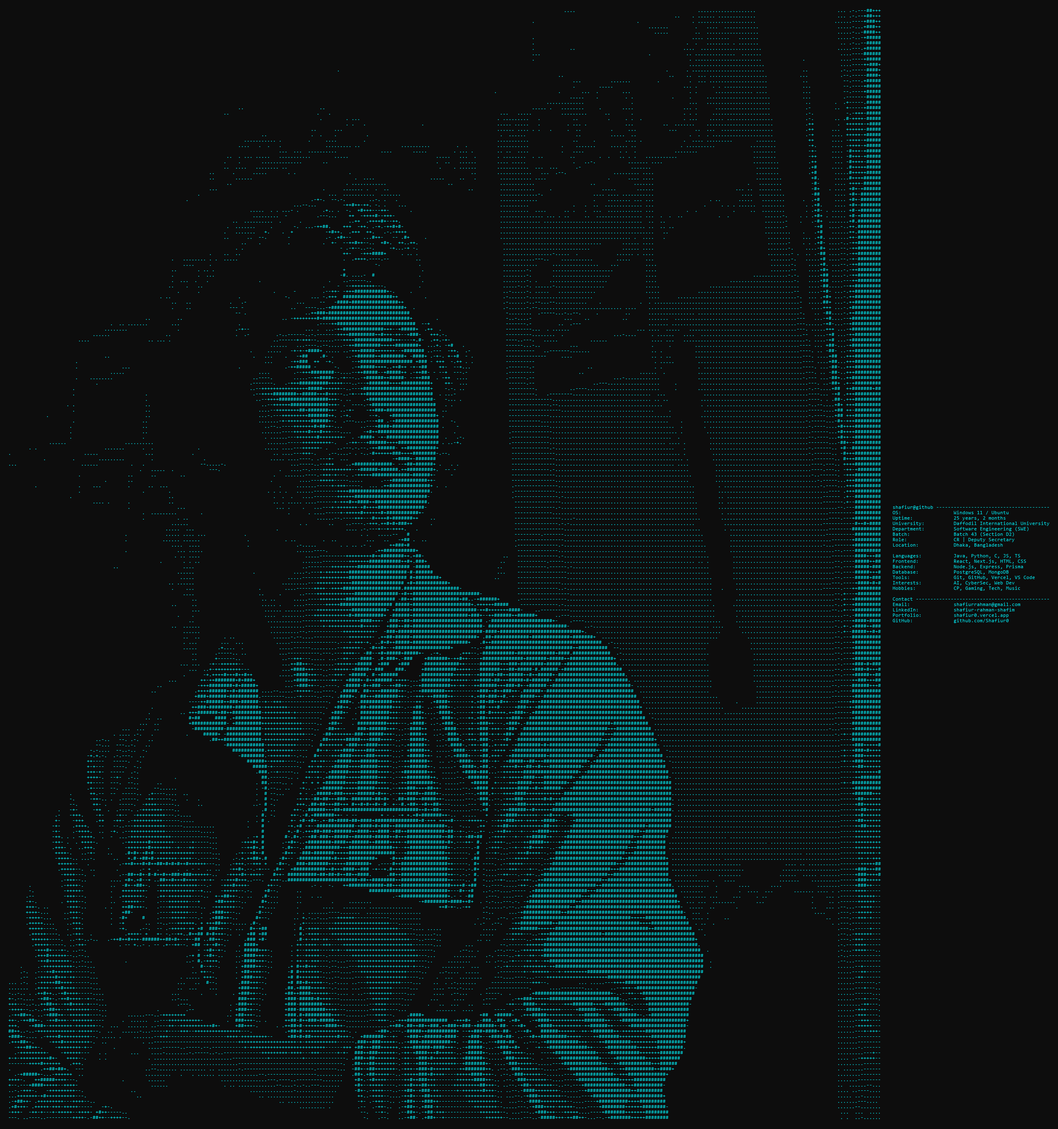
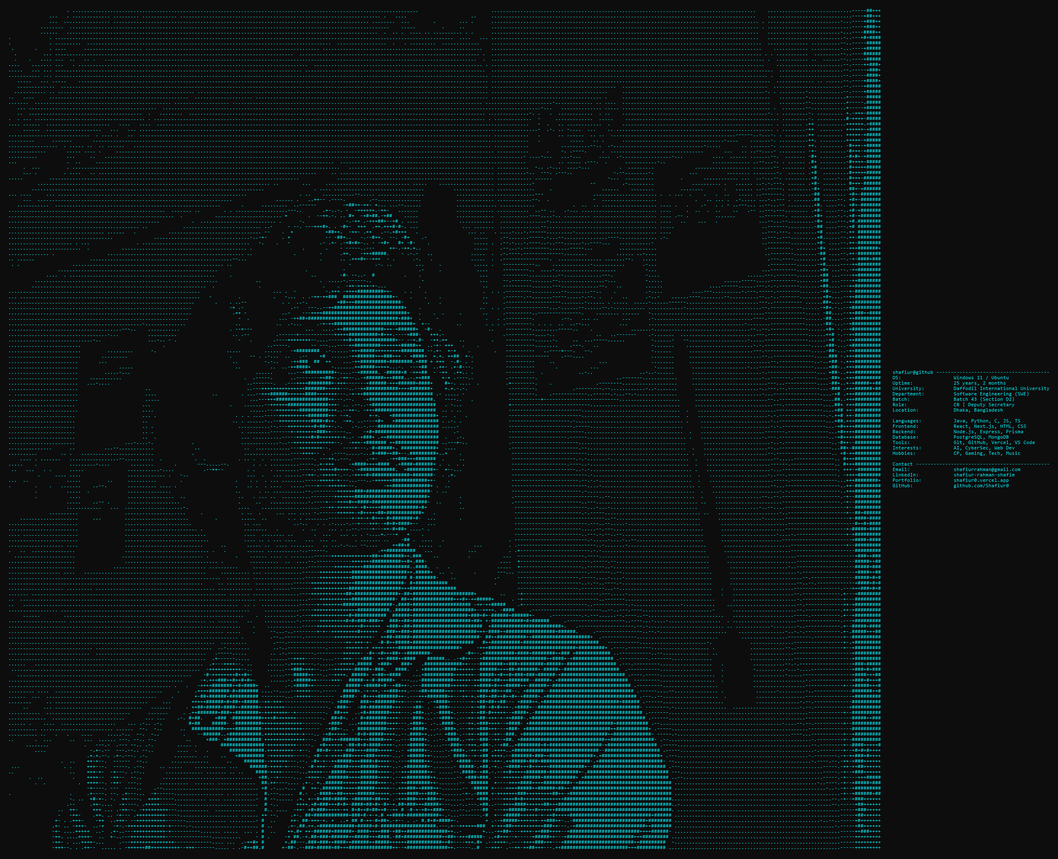
fix: generate PNG from newly cropped ascii to fit screen without scrolling

diff --git a/README.md b/README.md
@@ -5,164 +5,7 @@
 </div>
 
 <!-- ASCII Art Neofetch-Style Profile — generated from real photo -->
-```
-                    . .......................................................................................................................                         ...........................................................................................    .............................-----##+++
-              ...   . ............. ......... ............ ..................................................................... .   ....                      ..     ...........................................................................................    .............................----+##+++
-              ...  ................ ........................................................................................ ........  ...        .        ... .      ............................................................................................ . .........................-...----+###++
-           ........  ..............................................................................................................    .....         .     ..         ............................................................................................ . .............................----+###++
-           ......   ...........................................................................................................  .  .. .  .... .. .......... . .      ............................................................................................   .........................-...----####++
-.             . .........................................................................................................................................  ....   ... ............................................................................................   ..........................-..---+#+####
-.             . .........  ....................................................................................  .................  .   . .........  .............    .............................................................................................  .............. ..........--..-----#####
- .       .    . ....      .................... ............................................................ .......................................................   .............................................................................................    ............ ..........-...----+#####
-  .         ... ..................................................................................  .............................................................. .  ............................................................................................. . . ...........  .........--..----######
-  .    .   .... ...  ..   .. .   ................................................................................................................................  .  .............................................................................................. .  ........... ..  ......--..----+#####
-....    ....... ...   . ...............................................................................  .......................................................... . ..............................................................................................    .......................--.----++###+
-.....   ... ... ..................................................................................... ..............................................................  .................................................................................................  ......................--.-----+###+
-........... ... ..................................................................................................................................................... ............................................................................................... .  ......................--.-----####+
-   .....   ... .....    ............................................................................................................................................. ................................................................................................  ............. .. ......--.----+####+
-   .............  ................................................................................................................................................... ...........................................  ..................................................  ........................--.----+#####
-  ........... .. ............................................... .................................................................................................... ........................................     .................................................-. . .........-............--.----+#####
-..   ....     ................................................  .................... ................................................................................ ...................................... .     ...................................................   .........-.............+------#####
-.......  ............................................... ................... ...................................................................................... .......................-............. .. ....  ...................................................   .........--............+-----.#####
-   ... ............................................  ..................................................................................................................................-...   .............. ..... ................................................... .  ........--............+-----+#####
-   ..  .......................................  .   ........  ...................................................................................................... ..............-. .   .  ............  . ..    ..................................................-. . .........-. ......... +.-+++-#####
-.  . ... ...................................... . .................................................................................................................. . .............  -     .............  .....    ..................................................... .........-. ..........#-++++-#####
-.... ......  ......................   ....   ....  ................................................................................................................................   -  .   .. ............  .    .................................................... . ....... .++ ..........++++++.+####
-     ......  ...................   ...   ... .........................................................................................................................................-  .-. .. -....  ...    .. ...................................................... . ........-++  ........ ++++++-+####
-............................  . .... .   ..  ......................................................................................................................... ............   .      .. ......  .. ..  ...........................................------..-...-. . ........++ ......... +++++-+#####
-.........      .......       ......................................................................................................................................................   .          .....   .. .      ...................................-....    .......-. ..........++. .........+++++-+#####
-.................  . ..... ..  .. ......   ........................................................................................................................... ............           ..........--..  .-...............................-.....       .. .......-. ......... ++. ........ -#+++-+#####
-.............       ..... .... .     .................................................................................................................................. ...........      .    -. .----.     .  ................................       ...   .. ..--....- ......... -+- .........-#+++-+#####
-..........          ...     ..   ................................................................................................................................................- ....-...   ...-...      ....  .-.................-...          ....  ...... .......--.  ....... -#+ .........-#+#+-+#####
-...                 .  ..     ..................................................................................  ................................................................           .. ..... .---.  .      ...........-..                ............. ..--...-. . ...... .#+ .........-#++++-#####
-     .  ...         . ............................................................................................   .................................................. ...........  -.. .-...  ....-...          .  .........              ................... .......-- ........ .+# ..........#+++++#####
-     ... .         . ....   .. ...........................................................................     .. ..................................................... ..........-..  ---. .---..              -.--........-.            ...          ........ ........-.  ...... .+#  .........#+++++#####
-.....         ......................................................................................             ...................................................... ............ ......                   -...  ..........         .       ............ ...  ..-...--. .........+#. .....-...#+++-######
-          ................................................................................ ..        ...     ............................. .....    ................... ............-                   --         .-.........             .......... .   ...... ..-.-.---. ...... .+#- ........ #+++-######
-        ................................................................................                 . .... ...............................          .............. .............     .                 ......    ........         ........       .   ...... ..-.-----. ........-#+ .........##+-+######
-... ....     ... .................................................................                  . ..    ...........--..... ................           ...........................---                 ...................... .  . ...  .    .   .  ..   ..... ..-------. ........-## ........ +#+-#######
-     ...  ...................................................................               ...... .   ..++-- .----.        .--...............            ............. ............--.  .               -  ...................             .   .. ... .  .-..... ...-..--- . .......## .....--. +#+-#######
-   ...........  .........................................................       .      .........  ..------         -+##++-++- +... ...--......            .............. ............             .  ..  .. ................... .... .   .    .-   . . - ..---... ..--...-- .........+#. ....--. +#+-#######
-......................................................  ....... ..        . . ..................---..       .+-..-. -  -++++++.-++-   .......             ............. ...........  ..-- ..   .-... .......................... ....     .  ..  .  ..    ..   .-- ..---.---........ .+#- ....--..+#-+#######
-.........................................................  .           ....................... +       .  --++.-. .. #+  -+#+##.-+##    .....             .............  ..........----....-.. ......... ...................... .... .-- .         .......        ..-------. ........+#+ ....-.-.+#-+#######
-....................................................           .  .......................... .      -.              -.-++ .-+++##+--+# . ....              ............  ................-..................................... ....   ..    ...   .              ...--...--.........-#+ ....---.+#.########
-............................................. ..            ........................... ..-     - --. ---+++#+. . -#+-  +++  .++.+++#-#-. ...               ... .......  ..............--...................................... .....                              ..-------.........-## ....---.+# ########
-................................. ......   .           ................................ --    .  +           +##++.  -++- .++   .--.+#+++   .                 ... ..   . ....-...-.------.........-............................ ....                               ..---.---. ........+# .....--.++ ########
-....................................              .................................-..-+-     . +            -- -##+..   -.--#++.  --. -#+    .-                .....    .--.......-----.-...--...............----............. .-.                                ..---..---.........+#......--.++-########
-...................... . ...                . .....................................   -.    .   -          .- .+- .-+#+#+-.. - -+#+   #+ -#-    .               ..... .  .--.-...-.----..-..---......-..----...   ...........-                                     ..--------.........+#- ....--.++-########
-.........................  .           ........................................... .                 .       .    - -----..---     ++-.-++.+..                  .....    .--...-.---------.......-----...         .............                                     .--------. .......-#+ ....---+++#######+
-.............. .                  ............................................... ..              .        -      .++.   -+++#####.    - .-.-   ..             .....  .  .-.----.--------------........          ...... ..-....                                     ..--------........-## ....--.++-########
-.. ......                   .................................................--...                         .      .. .+++#+--+++  - .      .-.   .             .....  .  .----------------.  ............... .......--.   .....                                      .---.----.........+# ....--.-+-####+###
- . .                  .................................................... ..                                        -        .-. ..        ...     .           ..... .   -----------..    .............-...........      .-...                                      .---------.......-+#.....----++########
-                 .......................................................                              .            -                         .-     .            ....     ---------..  ....-.....................          -...                                    ...---------........+#+ ...--.-++########
-             ....  . ..................................................     .                           ..        -#- --..-  #          .    .                    ...     ---------..........--.............---.           -....                              ......---.-------........+## ...----++########
-         ...............................................................             ..                    .  .....-.------..                 -                   ...     --.-------.......--................-...          -.....                     ......-----.....---------........+## ...----++########
-        ............................................................  .               .                     .    .  -++-++++-+-...           .                     ..     ----------.......---.............--.   ..        ......                ....------......---.-.-.-------.......+##....---++#########
-..................................................................                         ... .  -          -.+++ -++++#########++-    . .    .                   .  . . .---------..........--........--..    .          .-....          ....---..........-.---.-----.--------.......-+#-...---+-#########
-... ..............................................................   -         .           .   -...  . .-++-++###  #################+-    .    .    .              ..     .------.--.......-----.....-.--. .   .   ..      .-..-    ......----........--..........--..-..-------........+#+....--++#########
-................................................................       .    . ..--            . .  ..-.          +##+++################-        .   .              ..     .-------------------........-...... . .....  .....-......------.........................---..---------- ......##+....--++#########
-...............................................................             -+ .-                .--   ---..--++########################+    .                    ..  . . .---------------...-......--......--.-........... ............-..........................--.-----------......-+#+.-..--+##########
-...............................................................              .++ -            ..-    ---++++#############################+   .    .  .     .       ..     .---------..---------------.    ........ ......   -.......................................--------------..... -##....--++###++####
-..............................................................                 -  .          ... -++##+###############################+###+  .     -                .   . .---------.         .--.   ... ..        ...      .-..................................----.-------------......-##....--++#########
-..............................................-..............                 ..            ..  .-...     .-+-++###########################+  +--         ..        . . . .---------. . . .  ..  ..--...          ...       .................................-........------------......-##-...--+##########
-.......................................---..    ...........                 . --+---                  ...   ....-++##############+++-+######+  -#-  .                ..    ---------.........-----..    .             .......-.................................--..--.-------------......+#+ -.--+##########
-..................................-...          ..........                   .. .--         .------+------------+++++##########+#+++.----+###-   +++.-                    .----------....-..              ..   ..-------    .-.......  ..........................---.--------------......++# -.--++#########
-.............................-..                ...-.. - .                     -   .       .----++++++++--....-----++#+##############+-- --+.#-  -++.++    ..         .    ----------......-.     ..  ...-----......         -......-   --....................-.....---------------......-+# -..-++#########
-.........................                            .                                   ..-----.       -- ---...----++#########+++++++#####++  ..-+- +++   .    .         ----------........    .---.   ..                  -.......    .......................-.-.----------------.....+##-...-+##########
-.........................         .........      -.                        .....        ......   -+########  .-......-+++#####+++++++++######## --.+-  +-+    .        .   ----------   ..----+---.   --.                    -......      ......................---.----------------.....-##-...-++#########
-.........................       .........                                   .      -- . .-...  ..   .--    +#  ......-++######+++###+++ - +####+  +.+. ++##  +-.           ---------------    .---....                       ........     .........................--..--------------.....### -.+++#########
-........................       ...                                           ..         -.-..    -++###  ##  ++    ...-++#########+########.+### + +++  -.#- . -           ----------     ..               ...               ........     ............................--.------------..-..+## -.+++#########
-........................              .....                                   ..          ..  ..-++####+       -.......++#####+++++...-.  ---+##  ..++- .+-#---.           ----------       .           ...                   -......      ...................-...-------------------.....+##-..+++#########
-........................         .....-...                                           ......     ...--+##########+-....--+######. -#####+# -+++##  - -++  .++.. .           ----------  .            ..-..                ..-..-......      ........................-.-----------------... +##-..+++#########
-........................    ...........                                          .  .-----.      ..--------++##+-.-++--..-+######+++####..-.++###    +-+ .----..           .---------.                           ..-------............     ........................-..-------.--------....-##+..+++#########
-........................   ...-....                                               ..-------.   .---++++########+-+++-------+######-+++######+####+    #+-. ....  .         .+--------.    .               .--------...................     ..........................---...-----------....-##+..+-+#####++##
-........................                       ..                                 ..---+++++++++++++++#######+++++---..--++###########++++#######+    +.+.-.-.              ---------.            .---------.--............-..-.......      ......................-..---.--.-----------...-### .+++######+##
-. ......................                       ....                   ..        . ...--+++######++++++####+++++++---.-+-++######################## .- ..... -               ---------.    .------------..------.-...--.-..............      .......................-...----------------....-+# .+++#########
-........................                       .....                               ...---+++##################++---.--.   -+######################.   ----..   .            -----------+--------------------------.....................     .........................--..---------------....##..+++#########
-.......................                       ...                           .    .......--++++++##############+++- .. .--..-+######################   . -...                +---------------------------...............................     ...........................---.-------------....##+ +++#########
-........................                      ....                                 ......---++++++++##########+++..--++-. -+++#####################  .. . ..                -------------------------..................................  .   ...........................----------------....+## ++-#########
-.......................                       ... .                           . . . ....-----++++++++++#######++- --+.      +-+.   +###############+ ..  .   .              -------------------------..................................  .   ........................-.-.----------------.-.++# ++-#########
-.......................                       ..                             .. . ......-..--+++++++++++####+#++.  -++. ..----+#+   +############### . .-. .                ---------------------.-..................................... .    ........................-..----------------...+##.+++#########
-.......................                       .. .                             ...........--.---+++++++++#+##++-.-.   .-..-.---##################### .....-                 ----------------------.-----................................      ........................-.-.---------------...-+#++++#########
-.......................                       .. .                              . ........-------+-+++++++###++-----..    -+#+######################     .-                 --------------------------..................................  .   ......................-------.--------------...+#++++#########
-.......................                       ..  .                             ... ..........-----+++++#+#+++++++-+..- -+###+ .++##################  .   .-.               --------------------.------.................................. .   .....................-.---.-----------------..-+#++++#########
-.......................                 ...-....-.             .                .............-..--++++++++++++++--.  -+++-+####### ++############### ..---+-..              .-----------------------.....................................      .......................-..-.----------------..-#++--#########
-...............      ..          ...--............              ..               ..  ............---++++++++--.    ----+---.-#+#####+. ############+  ....                  .-----------------------.--..................................  .   ......................--..------------------...##+-##########
-..........        .. .   .........................             .                 ................----++++-- .  .----.....-...#+###++##+--.#########+..+    .                 --------------------------................................... .   ......................--.-------------------.. +#-++#########
-    .... . .......   .................--..........  .           .  .           . .. .  .  ........-------. ---++..---.     .-+-   .-++###+++#######  .     ..                ----------------------.-.-.......-...........................  .   .......................--.....--------------.. #+++#########
-.....    .           .........-....       ........       .       ---.....--.        . . . ..........-----..+-+++     -+####++++####  .+####+######+ .  .  . .                -------------------.----..-..................................  .   ......................------.---------------.. #+++#########
- ..   ...   . .      .....               ...........-....          .--++--        . .     . ........-----.-+++++#++++-.-+############.  +#########+-  +--...                 ----------------------..-.-................................... .   ......................-...-------------------. +++-+########
-          .     .... ....                ............. .   -..                    ...  .   ... ......--++-.-+++++-.--.-++++#+#############+#######-  . .+.                   --------------------------.-..................................  .   ....................-..---.-----------------. -++++########
-...  ..             .....         ..     ..........        .                  .    . .  . ... ........-----+++++-+---...---..-++++++############++-    .                     -----------------------.--.-.-................................  .   ......................-----.----------------...+++########+
-.        .    .   .......    ..--.       .......... .... .                    .   .. .  . ....   .....----+---++++++---.         -++#############+ .  ..                     --------------------------....-................................ .    ....................--...-------------------..++-#########
-         .          .....  .             ...............                      ..      . .. ...........--.--------++++++###+######################- . ..                      ------------------------.-.....................................  .   .......................-.-.-----------------..+++#########
-         .           ....                ................  ..                  ..   . ... ..  ..........--------+++++++#########################+          .                 .-----------------------------..--.............................  .    ................--..--.--------------------.-+--#########
-                    .....    ..-- .      ..................                    .     ..   .............-.----+---++++#++####+###################-  ..      .                 .-----------------------..---................................... ..   .......................--------------------.-+--#########
-                    ............   ...  ....................-.                 ....    ....................---++-+++++++-+#+++++#############+#+           ..                 -------------------------...-...-..............................      ...............-..--....---------------------+--#########
-              ..........                .....................     .             . ..  .     ... ... .... -.------++++++-+#+++++##+############+   .                           -----------------------.-.-----................................. ..   .....................-..--------------------+--##+######
-    ....................     ...        ......................         .        .....  ..       . . . ........--------+-++-+-#+++-#+#######+#-  ...        .                  -------------------------------..--.............................      ...............-.......----------------------+-####+####
-........................                .......................                  .. ...           ..-..   . . .-....-.--+---+++--+#+#+####+--   ...                           -------------------------.---..--.....-.........................       .......................-----------------------#++#+####
-........................                ......................... .              ........   .        .  ..    ... . ..--.----+---++-#+##+ ....- .                             -----------------------.....--.---...............................      ......................---------------------+-#####+####
-.... ...................                ............................             ....  ........ ..       .  ...   ... .. . -....+.---+   +    .                               -----------------------..---.-.--..--............................      ...................-....-.-----------------+-+#########
-........................                .............................            .... .. . ... ....   ...  ... ..      . ....... ..    -## .  ....   .                      . -------------------------.-.....-....-..--.......................      .....................------------------------+####+####
-................... ....                ...........................      ..       ..... ..  .... ........   .. ...-.-... --....     ++##+#   .....  .           ...         . .---------------------------..-.......-...........................      .......................-------------------+--#########
-.   ..  ...............                 ............................. .   .       ...... ...........-..------.                 .++##########   ...            ...           . .+------------------------.-.-....................................      .......................----------------------#########
-  .....................                ............................ .         .    ...... .... . ........------++++++++++++++##++#######++.###    ..          .           ...  -----------------------.----......................................      ........................--------------------+###++###
-.......................                 ................................ .         ..........  ..  ....--.------------+++++++##########++#+.###-                         ....  +------------------------.-----.--................................      ........................--------------------#####++##
-.......................             ................................ ..........     ...................---------++++++++++################..####.  .   .                .....  +---------------------..------..-.................................       ....................-..--------------------#####+###
-.................. ....   ..........................................     .......... ... .............------+++++++++++###################++.#####+  ..  .       .       ---... ------------------------.-------..--...............................      .......................-.------------------+####++##
-.........................................................................  ........ ..................-----+++++++++++################### #-#######-    ..             .-      ---------------------.-----....-....-..............................      .........................--.---------------#####+#+#
-...................................................................     .. ........  .............------+++++++++++++++#################- #+###########                .       ----------------------..-.--..----.-...............................      .......................--..--.-------------+####+#+#
-................... ......... ......................................... ............ ..... ......--------++++++++++++##################+++################                     ---------------------.--------...--................................   .   .....................----------------.---+++###+#+#
-....... ................................................................... ....... ................----++++++++++++##+###############+-##+#####################+        ..    -+--------------------------.---.....-.............................   .   .....................--.-------------.+---+########
-..  ................................................................................. .................----+++++++++++###############- ##++##############+++#+-++#####+      . -+--------------------------..-------...............................      ......................-.--------------+---#########
-..   ..........................................................................  .. .  .............------+-+++++++#################-.####+#################### -++-++#####    .+----------------------..------------.-................-...........    ........................--.-------------++-+#########
-................. .................................................................     ............-----+++++++++++++++###########..#####+#####################+--++++. -####     .------------------------..--..---.----........................-      ......................--.------------.++-+#########
-     ......        ..............................................................    .  ...........-.---+++++++++++++#+###########  ######+###################+###+#+-######+######+-     .----------.-.---......--.----..--..........................   .....................-----.----------.+--+#########
-.................... ............................................... .. .......   ..    ...........-.------+++++++++#+#+###+###++  ###++##+####################+##+ +-###########+#+######     .--------------------..----...-....-..................  . ......................---------------.---+#########
-................................................................................    .    ............-----+++++++++++++++#++++++  +###++##+########################  +########################+.   .-------------------.--.-.......................... .. ............-........-..------------.+--#####+####
-.......................................................................... .....    .     --...-..--------+-+--+++++++++#++++++  -###++###+######################+++-####++#################+######.     .----------------..--.-.......................    ................-..-.-.------------.+-.#####+++##
-............................................................................... .         .--..------.----------+++++++++++++-  ++##+#####+#######################- ##++##########++####################+  .------------............................        ................--------.----------+--##########
-.......................................................................  .........         .---.--------------------++-+++-+-  -#-#++#####+#####################   #++##########+##########################   -----------.......................-.             ...............-----------------+-.+#########
-............................. ........................................  ..-........        ..-..-------------.------++++++-+ ++++-++++#####################+     -+++##############################+#########+ .----.--------.................... .            ............--..----------------+--+#########
-............................  ......................................   .-----.....        .. .-.---------.---------++++++- -#+-+#+++##+-+########-           -#+--.+##########+####+########++### +############ ..-----------..--................ ..           ...............--------------------+#########
-....................................................................  .+------.....       ......--++++------....---+++---+###- ++-####++####    ######.. .-+#++---+######################++####+-+############## .----------.-------..............             ...............--------------------+#########
-......   ..........................................................  .+---++++--. ..     ......-.+++++---.-.....--+++++.#####  +###+   ###+   .#############++----########++###+########+#####+-################# .---.---------..................   .          ...........--.-.------------------+###+#####
- .................................................................  -+++++++++++--..     ......--+###++++--...--++++++-#####+-###.   ####.  . +###########++++++--######++++##+#######+-#####+-###################  .-----------..................   .          -..........-...-....--------------+###+#+###
-   ............................................................    -#-++++++++#++#+-      .....---#####++---..--++++. #####+ ++##++####    ...+##########+++++++--#####++#++#+###+###+######-+###################### .----.-----...................  .          ...........-.....-----------------+####+++##
-............................................................      -+.+++###++#++#+#+-     ......-.+#####++-----+++-  #####-+-#-#####+  ---...-###########++++++-++####+##+++#######--#####+.+########################  ---------...................  .          ..................-.--------------+###+#+++#
-........................................................ .   .   -++++#######++#+####+  ..     .-.+####++---------  #####-+#####+#--+##++-.---##########++++++--++####+#+++#####++-######+-########################### .---------...................            ..................-------------+--+#####+++#
-......... ....  .....................................     .     .++++#######-#+####### ....--....--+++++---.-----  #####+.-+-++.-++###+++.---+##+#####+++--++----+###+##+++##--. +######--############################# .------....--............... .           .......-.........-..-------------#######++#
-......  ...  ......................................     .       +-##+######+########## --------...-+++++--------  +####- -#++++#######++-.---+++#######++---++-+.+##++##++#++#+-+#####+.+############################### .---..--...................  .          .................----------------+#########
-........     .. ................................     ...       +++++######+#+##++#####--++-+++-----------------. +###+-  ###++#######+++----++- .-+####+-------+-+##+##++##--- +####++.+##########################+###### .------.....................           ...............-.--.-------------##########
-     ..     ... ..............................   .......     . ++##+#####+####++######+-+++++++---------------. -###+-  -##+########+++----+##- . -+###+-------+-+##-+#+#+++-.+####+--###################################- --------.-..................  .......................-.--.------------+##########
-...........  .............................      .......     . .++#######+###++########+-++++++++--+----------.  ##+++  ..+#+#######++++---.+##+..-.-####+.-----+-+##-#+++++--+####+.-##################################### .-------................................................------------+--##########
-.............  .........................       ... ...    .-. #+##.    +### -##########++++#+++++++---------.  ##+#+. .- #+#######++++-----###+...--+###+-.---++-+##-+++-+-++####-.+####################################### .------...............................................----------------#####++###
-...... .    ....  ...................    ... .-.. .-.         #+##    #####- -#########++++++++++++++------.  +###+  ...+#########++++---.+###+- .-..####-.---++.+###++++--+####- +#############################+########### .--..........................................-....--.--.----------+--##########
-.......... ......................... ......  --.  -..      ..  ###########++++#########-+++++++++++++------  -+##+-.. . ##########+++---.-+####+ ..-.-###+.---++-+###+++---+###- +#############################++###########+ .-----...............................................---------------##########
-.......... ..   .   .    ....     .....-..  --.  -..        .    --######..+###########.++++++++++++-+---.. -+#+++++-  -#+#+#####++++..--.####++...-- +###-.--++-+###--++--###. +#############################++#############- -----.-.......................................----...-----------+--+#########
-..       .  ...      ..   ...  ...... ---. --.. --.          ..     +###- +############ ++++++++++++++---.  ###+++#######+++#####+++-..---#####+. ..--.####..-++--###--++-+##. +#############################++###############- .--.................................................-.---------+--##########
-      ........            .   ---.-  .--- --.. .-.        ..... .        ###############-++++++++++-----.  +#++++++ -##+#+#+####++++-.---+#####+-....---###+--+++.+##-.--+##..+########+#+##################-+################# .-----..............................................--.--------+--####+++++#
-         ....               -.+-.--  ---.--.. --..        ....  .   .       ############.+++++++++--+--.  ##+#+-+++-###++++####+++++-..- +#####+-.....-.+###+.-++-+## .++++..+#############################--################### .-----..............................................-.--------+--+#+#+#++++
-                           .+.+.--. .+-.---. .-.         ........  ..    ..   +######### -++++++++-----. +#--+-++++###+++++###+++++-...- +#####++-.....- ####+--+-+## ++++.--#######+###++###############+.+####################+ .---.............................................-.--------.-+-++###+#++++
-                  .  ..    ++-+--.  ------  --..        .............      ..    #######--++++++---.--. -#+-+--++#####+++####+#++++--.---+#####++-......- +####----##--++-.++#####+###+#################-.+######################- --...............................................-.----.--.-++-+###++++++
- ...               . .     +++---.  -----. .--.     .. .....    ........... ...    ######-++++-+----.. -#-+++---#####++++######++++-..-.+#######+-.......- #####-.+##.-+..-+####+++#++++++############+--######################### .---.................................................-----.-++-++##++++++
-..                   ..    +++-+-  -+---. .--..       ............. ....... .. ..    ####-++++------...+++++---#####+++++######++++-.--+++######++- .....--.####+-+##.-.--++#+++++#######+##########+-.############################ ---.................................................-----.-+--+###++++++
-       .  ..          .    ++++--  -++--  --..       ...............................  +##.--+-----... -++++--.#######++++######++++-.--++########++.......-- +###+###. ---+++++++######+###########+ +############################# ..--................................................-----.-+----+++#####
-         .  .           .  ++++--. -++-  ---..      ..........  ....... .............  ##.++----.... .+-. +..######++++++######+++--.--++########++-.......-- -######  +----++++####++++#########+-+################################ .................................................-..----.-+--+#####+###
-                           -+----. ---  ----..    .--................................. +# .-...-...  #  ++-.#######+++++######+++++--.+++###++####++-.......-- -##### +----++++#####++######+##++-################################## ....................................................-..-.-+--+#########
-.                    .     .+----. --. .+---...  -+------................. . .........  #.---.....  #.-  .-####++##+++++######+++++.--+++####+++###+-.......-+-.-#### +-+++++++###+++++++++##++-+################################### .........................................................-+--+######+##
-                     -. ..  +#-+-. -.  ++----.  ++++-----........... .... ...........-  # --...... .+. +--#+###+####+-+######+##+++ .-+++###++++###++-.......--- +###.----++++#+#++++++++++++++#####################################.......................................................--.-+--+###++++++
-                    .--     .++-....  -+----. .+++++------............................  # -..      ++++.+#+###+++#+#+-####+##+#+-#+-+.##+###+++#####+---...-..---.+##..---++++####++++++##+++#######################################..-............................................-.......--.-----+##++++++
-                 ..  ++-     +++ ... .-++--. -+++++++++---...........  ..............   #.. ....  -++- +#+###+++++-++ #+#++#+##++#--++ # -#-+-+#++###+--...--..----##  ---++######+++#++++++########################################. ........................................................-----+###+++++
-                 -   -++-    .++. .. -+--- .++++++++++-----.................... ...... ++ --.    .+-. ##+############+###+#-+-+.# ++####+###########+-.-...-------.-#  +--+#####++++++-+-++#+++++############################+###### .........................................................-----+##++++++
-                +- . .+++-    -++  ..+++- --++++++++++-------.............. .........- #  ..     ++- ##-+++-+. +  ..+ ## #-++-#+##+.-+-- . .- #.#+#+####+-.         + .--+#####+++++++-++###++-..-#########################+######## ..................................................-..--..-----+#+++++++
-               .+- .. -+++-  ..-+   -+-.-+++++++++++++-+-----.-....................... # ..     .+-.##.++.+############+#####+#-###################.---.+--++++++###  +-+++##+++++++++++###++---.-+########################++####### .......................................................-.-----+##++++++
-               -+- ....+++++  ..-  .+-..---+++++++++++-+----------....... .....  ... . #  ..    ++.#+ ++-######+######+-####++++###-+##++##############++..-       +...-++##+---++++-++###++++--+########################++++######- .........................................................-----++###++++
-               -++. ....++++-  ..  +-..---++++++++++++----------------..........     - # .     -+ ##.-+.##+###+######++#####+++####.-##+#############++##+-+++#####- ..+#+++--+-----+#####++---+#######################+++######### ..........................................................-----+++++++++
-               -++- . ...++++-...     .---+++++++++++++++-------------.... ...  .-++#+ #       +.##---.###+###++####++######++#####++++++############++#+----+++.#+ .--++++-.----++++###+++---+########################++#########  -.........................................................-----+++++++++
-               -+++--. . .++--  ..... . -++++++##++++++++++--+++-------..... . .-#++##.#      +-##-.--###+#####+##+++###############++--+##############++.-----..#  --+++- .--++-++##+++---.++#######################+++########## ...........................................................-----+++++++++
-```
+<img src="./ascii_profile.png" width="100%" />
 
 <div align="center">
 
